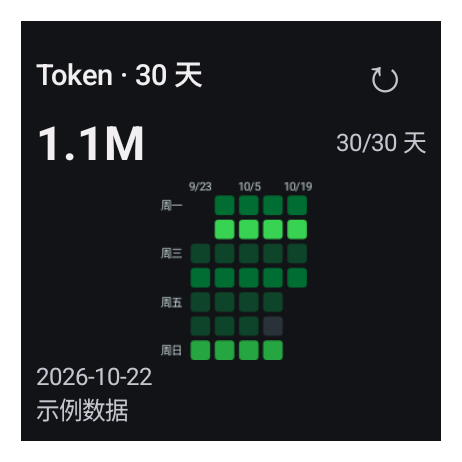
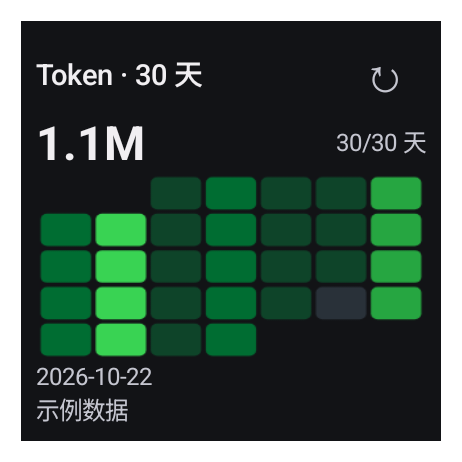
Use full-width calendar heatmaps in the app and widgets

Changed region(s): [[0.0606, 0.3636, 0.9394, 0.7879]]

diff --git a/app/src/main/java/com/tsonglew/quodex/widget/TokenHeatmapWidget.kt b/app/src/main/java/com/tsonglew/quodex/widget/TokenHeatmapWidget.kt
@@ -55,12 +55,10 @@ class TokenHeatmapWidget : GlanceAppWidget() {
         val muted = ColorProvider(colors.onSurfaceVariant)
         val large = context.resources.configuration.fontScale > 1.3f
         val square = size.width < 220.dp
-        val compactLabels = large || size.width < 280.dp
         val tokens = if (state.demo) demoTokenUsage() else state.snapshot?.tokenUsage
         val trend = remember(tokens) { tokenTrend(tokens?.dailyBuckets, 30) }
-        // At the smallest size, move the total into the heading at large font scales
-        // so the heatmap still has useful height instead of becoming a tiny thumbnail.
-        val totalInHeading = square && size.height < 140.dp && large && trend != null
+        // Share the heading with the total at the smallest size to leave room for every week.
+        val totalInHeading = square && size.height < 140.dp && trend != null
         val stale = !state.demo && tokens != null && (state.tokenFailure != null || Instant.now().epochSecond - tokens.fetchedAt > 7200)
         val status = when {
             state.demo -> texts(R.string.sample_data)
@@ -77,7 +75,7 @@ class TokenHeatmapWidget : GlanceAppWidget() {
         Column(GlanceModifier.fillMaxSize().appWidgetBackground().background(ColorProvider(colors.background)).cornerRadius(24.dp).padding(if (square) 6.dp else 12.dp)) {
             Row(GlanceModifier.fillMaxWidth(), verticalAlignment = Alignment.CenterVertically) {
                 Text(if (totalInHeading) formatTokenCount(trend!!.total, true) else texts(if (square && (size.width < 160.dp || large)) R.string.token_heatmap_widget_title_compact else R.string.token_heatmap_widget_title), GlanceModifier.defaultWeight(),
-                    style = TextStyle(color = foreground, fontSize = if (totalInHeading) 8.sp else if (square) { if (large) 7.sp else 11.sp } else if (large) 10.sp else 14.sp,
+                    style = TextStyle(color = foreground, fontSize = if (totalInHeading) { if (large) 8.sp else 14.sp } else if (square) { if (large) 7.sp else 11.sp } else if (large) 10.sp else 14.sp,
                         fontWeight = if (totalInHeading) FontWeight.Bold else FontWeight.Medium), maxLines = 1)
                 Button(if (state.tokenLoading) "…" else "↻", onClick = if (!state.connected && !state.demo) launch else actionRunCallback<RefreshTokenWidgetAction>(),
                     modifier = GlanceModifier.width(if (square) 32.dp else 40.dp).height(if (square) 28.dp else 32.dp).padding(0.dp).background(Color.Transparent)
@@ -88,34 +86,24 @@ class TokenHeatmapWidget : GlanceAppWidget() {
             Box(GlanceModifier.fillMaxWidth().defaultWeight()) {
                 if (trend != null) {
                     val map = remember(trend) { TokenHeatmap(trend) }
-                    val chartWidth = if (square) size.width.value - 12 else (size.width.value - 24) * if (large) .48f else .55f
-                    val chartHeight = if (square) (size.height.value - if (totalInHeading) 58 else 80).coerceAtLeast(20f)
-                        else (size.height.value - 80).coerceAtLeast(68f)
+                    val chartWidth = size.width.value - if (square) 12 else 24
+                    val chartHeight = (size.height.value - if (totalInHeading) 58 else 80).coerceAtLeast(20f)
                     val bitmap = remember(map, chartWidth, chartHeight, dark, texts.locale) {
-                        TokenHeatmapRenderer.render(map, (chartWidth * 2).toInt(), (chartHeight * 2).toInt(), dark, texts.locale)
+                        TokenHeatmapRenderer.render(map, (chartWidth * 2).toInt(), (chartHeight * 2).toInt(),
+                            dark, texts.locale, showLabels = false)
                     }
-                    if (square) Column(GlanceModifier.fillMaxSize()) {
+                    Column(GlanceModifier.fillMaxSize()) {
                         if (!totalInHeading) Row(GlanceModifier.fillMaxWidth(), verticalAlignment = Alignment.CenterVertically) {
                             Text(formatTokenCount(trend.total, true), GlanceModifier.defaultWeight(), style = TextStyle(color = foreground,
-                                fontSize = if (large) 9.sp else if (size.width < 160.dp) 14.sp else 18.sp, fontWeight = FontWeight.Bold), maxLines = 1)
-                            if (size.width >= 160.dp && !large) Text(texts(R.string.token_heatmap_known_days_short, trend.knownDays, 30),
-                                style = TextStyle(color = muted, fontSize = 9.sp), maxLines = 1)
+                                fontSize = if (large) { if (square) 9.sp else 12.sp } else if (square) 18.sp else 23.sp,
+                                fontWeight = FontWeight.Bold), maxLines = 1)
+                            if (size.width >= 160.dp && (!large || !square)) Text(
+                                texts(if (square || large) R.string.token_heatmap_known_days_short else R.string.token_heatmap_known_days, trend.knownDays, 30),
+                                style = TextStyle(color = muted, fontSize = if (large) 7.sp else if (square) 9.sp else 10.sp), maxLines = 1)
                         }
-                        Image(ImageProvider(bitmap), null, GlanceModifier.fillMaxWidth().defaultWeight(), contentScale = ContentScale.Fit)
+                        // The seven weekday columns stretch across both narrow and wide widgets.
+                        Image(ImageProvider(bitmap), null, GlanceModifier.fillMaxWidth().defaultWeight(), contentScale = ContentScale.FillBounds)
                         Text(trend.endDate.toString(), style = TextStyle(color = muted, fontSize = if (large) 6.sp else 9.sp), maxLines = 1)
-                    } else Row(GlanceModifier.fillMaxSize(), verticalAlignment = Alignment.CenterVertically) {
-                        Image(ImageProvider(bitmap), null, GlanceModifier.width(chartWidth.dp).fillMaxHeight(), contentScale = ContentScale.Fit)
-                        Spacer(GlanceModifier.width(10.dp))
-                        Column(GlanceModifier.defaultWeight()) {
-                            Text(formatTokenCount(trend.total, true), style = TextStyle(color = foreground,
-                                fontSize = if (large) 12.sp else 23.sp, fontWeight = FontWeight.Bold), maxLines = 2)
-                            if (!compactLabels) Text(texts(R.string.token_heatmap_tokens), style = TextStyle(color = muted, fontSize = 11.sp), maxLines = 1)
-                            Spacer(GlanceModifier.height(if (compactLabels) 4.dp else 6.dp))
-                            Text(texts(if (large) R.string.token_heatmap_known_days_short else R.string.token_heatmap_known_days, trend.knownDays, 30),
-                                style = TextStyle(color = muted, fontSize = if (large) 7.sp else 10.sp), maxLines = 2)
-                            Text(if (compactLabels) trend.endDate.toString() else texts(R.string.token_heatmap_through, trend.endDate),
-                                style = TextStyle(color = muted, fontSize = if (large) 7.sp else 10.sp), maxLines = 2)
-                        }
                     }
                 } else {
                     Column(GlanceModifier.fillMaxSize(), verticalAlignment = Alignment.CenterVertically) {

diff --git a/app/src/main/java/com/tsonglew/quodex/ui/TokenHeatmapRenderer.kt b/app/src/main/java/com/tsonglew/quodex/ui/TokenHeatmapRenderer.kt
@@ -18,18 +18,20 @@ internal object TokenHeatmapRenderer {
         0xff293139.toInt(), 0xff0e4429.toInt(), 0xff006d32.toInt(), 0xff26a641.toInt(), 0xff39d353.toInt()
     ) else intArrayOf(0xffe6ebef.toInt(), 0xff9be9a8.toInt(), 0xff40c463.toInt(), 0xff30a14e.toInt(), 0xff216e39.toInt())
 
-    data class Geometry(val left: Float, val top: Float, val cell: Float, val gap: Float) {
-        fun bounds(week: Int, row: Int) = RectF(left + week * (cell + gap), top + row * (cell + gap),
-            left + week * (cell + gap) + cell, top + row * (cell + gap) + cell)
+    data class Geometry(val left: Float, val top: Float, val cellWidth: Float, val cellHeight: Float, val gap: Float) {
+        fun bounds(week: Int, weekday: Int) = RectF(
+            left + weekday * (cellWidth + gap), top + week * (cellHeight + gap),
+            left + weekday * (cellWidth + gap) + cellWidth, top + week * (cellHeight + gap) + cellHeight)
     }
 
-    fun geometry(map: TokenHeatmap, width: Float, height: Float): Geometry {
-        val label = min(width * .2f, height * .19f)
-        val top = height * .12f
-        val gap = height * .025f
-        val cell = min((width - label - gap * map.weeks) / map.weeks, (height - top - gap * 6) / 7).coerceAtLeast(1f)
-        val plot = cell * map.weeks + gap * (map.weeks - 1)
-        return Geometry(label + (width - label - plot) / 2, top, cell, gap)
+    fun geometry(map: TokenHeatmap, width: Float, height: Float, showLabels: Boolean = true): Geometry {
+        val gap = min(width * .012f, height / (map.weeks * 5 + 2))
+        val left = if (showLabels) width * .12f else gap
+        val top = if (showLabels) min(width * .08f, height * .4f) else gap
+        // Seven weekday columns use the available width even in a short 2×2 widget.
+        // Rectangular cells avoid shrinking the entire chart to fit its height.
+        return Geometry(left, top, ((width - left - gap * 7) / 7).coerceAtLeast(1f),
+            ((height - top - gap * map.weeks) / map.weeks).coerceAtLeast(1f), gap)
     }
 
     fun hit(map: TokenHeatmap, width: Float, height: Float, x: Float, y: Float): TokenTrendDay? {
@@ -41,51 +43,54 @@ internal object TokenHeatmapRenderer {
     }
 
     fun render(map: TokenHeatmap, width: Int, height: Int, dark: Boolean, locale: Locale,
-        selected: String? = null): Bitmap {
+        selected: String? = null, showLabels: Boolean = true): Bitmap {
         val bitmap = Bitmap.createBitmap(width.coerceAtLeast(1), height.coerceAtLeast(1), Bitmap.Config.ARGB_8888)
         val canvas = Canvas(bitmap)
         val paint = Paint(Paint.ANTI_ALIAS_FLAG)
         val palette = colors(dark)
         val muted = if (dark) 0xffb7c4c7.toInt() else 0xff52605a.toInt()
-        val g = geometry(map, width.toFloat(), height.toFloat())
-        val labelSize = min(g.cell * .65f, height * .06f)
-        paint.textSize = labelSize
-        paint.color = muted
-        paint.textAlign = Paint.Align.RIGHT
-        for (row in listOf(0, 2, 4, 6)) {
-            val bounds = g.bounds(0, row)
-            canvas.drawText(DayOfWeek.of(row + 1).getDisplayName(TextStyle.SHORT, locale),
-                g.left - g.gap * 1.8f, bounds.centerY() - (paint.ascent() + paint.descent()) / 2, paint)
+        val g = geometry(map, width.toFloat(), height.toFloat(), showLabels)
+        val cell = min(g.cellWidth, g.cellHeight)
+        val labelSize = min(g.cellWidth * .4f, min(g.cellHeight * .55f, g.top * .65f))
+        if (showLabels) {
+            paint.textSize = labelSize
+            paint.color = muted
+            paint.textAlign = Paint.Align.CENTER
+            for (weekday in 0..6) {
+                val label = DayOfWeek.of(weekday + 1).getDisplayName(TextStyle.SHORT, locale)
+                paint.textSize = labelSize
+                paint.textSize *= min(1f, g.cellWidth / paint.measureText(label))
+                canvas.drawText(label, g.bounds(0, weekday).centerX(),
+                    (g.top - g.gap) / 2 - (paint.ascent() + paint.descent()) / 2, paint)
+            }
         }
-        paint.textAlign = Paint.Align.CENTER
         val dateFormat = DateTimeFormatter.ofPattern("M/d", locale)
-        var previousLabelRight = Float.NEGATIVE_INFINITY
         for (week in 0 until map.weeks) {
             val first = (0..6).firstNotNullOfOrNull { map.day(week, it) } ?: continue
             paint.style = Paint.Style.FILL
             paint.color = muted
-            // Skip crowded ticks in short 5–6 column heatmaps, including widgets.
-            val label = first.date.format(dateFormat)
-            val center = g.bounds(week, 0).centerX()
-            val halfWidth = paint.measureText(label) / 2
-            if (center - halfWidth >= previousLabelRight + labelSize * .7f) {
-                canvas.drawText(label, center, g.top - g.gap, paint)
-                previousLabelRight = center + halfWidth
+            if (showLabels) {
+                val label = first.date.format(dateFormat)
+                paint.textAlign = Paint.Align.RIGHT
+                paint.textSize = labelSize
+                paint.textSize *= min(1f, (g.left - g.gap * 2) / paint.measureText(label))
+                canvas.drawText(label, g.left - g.gap * 1.5f,
+                    g.bounds(week, 0).centerY() - (paint.ascent() + paint.descent()) / 2, paint)
             }
             for (row in 0..6) {
                 val day = map.day(week, row) ?: continue
                 val level = map.level(day)
                 val bounds = g.bounds(week, row)
-                val radius = g.cell * .18f
+                val radius = cell * .18f
                 paint.color = if (level < 0) muted else palette[level]
                 paint.style = if (level < 0) Paint.Style.STROKE else Paint.Style.FILL
-                paint.strokeWidth = (g.cell * .045f).coerceAtLeast(1f)
+                paint.strokeWidth = (cell * .045f).coerceAtLeast(1f)
                 canvas.drawRoundRect(bounds, radius, radius, paint)
-                if (level < 0) canvas.drawLine(bounds.left + g.cell * .32f, bounds.centerY(), bounds.right - g.cell * .32f, bounds.centerY(), paint)
+                if (level < 0) canvas.drawLine(bounds.left + g.cellWidth * .32f, bounds.centerY(), bounds.right - g.cellWidth * .32f, bounds.centerY(), paint)
                 if (day.date.toString() == selected) {
                     paint.color = muted
                     paint.style = Paint.Style.STROKE
-                    paint.strokeWidth = (g.cell * .07f).coerceAtLeast(1.5f)
+                    paint.strokeWidth = (cell * .07f).coerceAtLeast(1.5f)
                     val ring = RectF(bounds).apply { inset(-g.gap * .3f, -g.gap * .3f) }
                     canvas.drawRoundRect(ring, radius, radius, paint)
                 }

diff --git a/app/src/main/java/com/tsonglew/quodex/ui/TokenHeatmapChart.kt b/app/src/main/java/com/tsonglew/quodex/ui/TokenHeatmapChart.kt
@@ -44,18 +44,19 @@ internal fun TokenHeatmapChart(trend: TokenTrend, compact: Boolean, modifier: Mo
         texts(R.string.value_days_recorded_as_0_open_daily, trend.days.count { it.tokens == BigInteger.ZERO })
     Column(modifier, verticalArrangement = Arrangement.spacedBy(10.dp)) {
         Text(texts(R.string.token_heatmap_scale), fontSize = 12.sp, color = muted)
-        BoxWithConstraints(Modifier.fillMaxWidth().height(210.dp).testTag("token-trend-chart")
+        BoxWithConstraints(Modifier.fillMaxWidth().testTag("token-trend-chart")
             .semantics(mergeDescendants = true) {
                 contentDescription = description
                 if (onDetails != null) onClick(texts(R.string.daily_details)) { onDetails(); true }
             }) {
             val density = LocalDensity.current
             val width = with(density) { maxWidth.roundToPx() }.coerceAtLeast(1)
-            val height = with(density) { 210.dp.roundToPx() }
+            val chartHeight = (maxWidth.value * (.12f * map.weeks + .08f) + 4).coerceIn(60f, 260f).dp
+            val height = with(density) { chartHeight.roundToPx() }
             val bitmap = remember(map, width, height, dark, texts.locale, selectedDate) {
                 TokenHeatmapRenderer.render(map, width, height, dark, texts.locale, selectedDate).asImageBitmap()
             }
-            Image(bitmap, null, Modifier.fillMaxSize().testTag("token-heatmap").pointerInput(map, width, height) {
+            Image(bitmap, null, Modifier.fillMaxWidth().height(chartHeight).testTag("token-heatmap").pointerInput(map, width, height) {
                 detectTapGestures { point -> TokenHeatmapRenderer.hit(map, width.toFloat(), height.toFloat(), point.x, point.y)?.let { selected = it.date.toString() } }
             })
         }

diff --git a/app/src/androidTest/java/com/tsonglew/quodex/TokenUsageDeviceTest.kt b/app/src/androidTest/java/com/tsonglew/quodex/TokenUsageDeviceTest.kt
@@ -118,6 +118,26 @@ class TokenUsageDeviceTest {
         assertNull(app.repository.state.value.snapshot?.tokenUsage)
     }
 
+    @Test fun calendarUsesCardWidthAndAdaptsHeightToTheSelectedPeriod() {
+        compose.onNodeWithTag("demo-button").performClick()
+        compose.waitUntil(10_000) { compose.onAllNodesWithTag("token-usage-card").fetchSemanticsNodes().isNotEmpty() }
+        chooseChart("heatmap")
+        var sevenDayHeight = 0
+        for (days in listOf(7, 30)) {
+            compose.onNodeWithTag("token-trend-$days").performScrollToVisible(compose).performClick()
+            compose.onNodeWithTag("token-trend-chart").performScrollToVisible(compose)
+            val bitmap = compose.onNodeWithTag("token-heatmap", useUnmergedTree = true).captureToImage().asAndroidBitmap()
+            val greens = com.tsonglew.quodex.ui.TokenHeatmapRenderer.colors(false).drop(1).toSet()
+            val occupiedColumns = (0 until bitmap.width).filter { x ->
+                (0 until bitmap.height).any { y -> bitmap.getPixel(x, y) in greens }
+            }
+            assertTrue("Every period should fill the chart width", occupiedColumns.isNotEmpty() &&
+                occupiedColumns.last() - occupiedColumns.first() > bitmap.width * .80f)
+            if (days == 7) sevenDayHeight = bitmap.height else assertTrue(bitmap.height > sevenDayHeight * 1.5)
+            screenshot("token-calendar-$days-demo-light")
+        }
+    }
+
     @Test fun heatmapWidgetIntentReturnsFromSettingsAndShowsThirtyDays() {
         connectWithTokens()
         chooseChart("bars")

diff --git a/app/src/androidTest/java/com/tsonglew/quodex/TokenHeatmapWidgetDeviceTest.kt b/app/src/androidTest/java/com/tsonglew/quodex/TokenHeatmapWidgetDeviceTest.kt
@@ -213,6 +213,15 @@ class TokenHeatmapWidgetDeviceTest {
             saveDeviceScreenshot(context, name, bitmap)
             assertWidgetActionLayout(view, refreshDescription, texts(R.string.value_open_quodex, ""))
             assertTrue("Heatmap bitmap must be visible", descendants(view).filterIsInstance<ImageView>().any { it.drawable != null && it.width > 0 && it.height > 0 })
+            // Inspect the rendered host, including ImageView scaling: a visible but narrow
+            // bitmap used to pass while leaving most of the 2×2 widget empty.
+            val greens = com.tsonglew.quodex.ui.TokenHeatmapRenderer.colors(false).drop(1).toSet() +
+                com.tsonglew.quodex.ui.TokenHeatmapRenderer.colors(true).drop(1).toSet()
+            val occupiedColumns = (0 until bitmap.width).filter { x ->
+                (0 until bitmap.height).any { y -> bitmap.getPixel(x, y) in greens }
+            }
+            assertTrue("Heatmap must span most of the widget width",
+                occupiedColumns.isNotEmpty() && occupiedColumns.last() - occupiedColumns.first() > bitmap.width * .68f)
             for (label in labels(view).filter { it.text.isNotEmpty() }) {
                 val bounds = Rect()
                 assertTrue("Hidden widget text: ${label.text}", label.getLocalVisibleRect(bounds))

diff --git a/app/src/test/java/com/tsonglew/quodex/data/TokenHeatmapTest.kt b/app/src/test/java/com/tsonglew/quodex/data/TokenHeatmapTest.kt
@@ -6,7 +6,7 @@ import java.math.BigInteger
 import java.time.LocalDate
 
 class TokenHeatmapTest {
-    @Test fun calendarColumnsPreserveExactlyThirtyDatesAcrossLeapDay() {
+    @Test fun calendarWeeksPreserveExactlyThirtyDatesAcrossLeapDay() {
         val trend = tokenTrend(listOf(DailyTokenUsage("2024-03-10", 10)), 30)!!
         val map = TokenHeatmap(trend)
         val cells = (0 until map.weeks).flatMap { week -> (0..6).mapNotNull { map.day(week, it) } }

diff --git a/app/src/main/java/com/tsonglew/quodex/data/TokenHeatmap.kt b/app/src/main/java/com/tsonglew/quodex/data/TokenHeatmap.kt
@@ -2,7 +2,7 @@ package com.tsonglew.quodex.data
 
 import java.math.BigInteger
 
-/** Monday-first rows and week columns, with padding outside the requested service-date range. */
+/** Monday-first weeks, with padding outside the requested service-date range. */
 data class TokenHeatmap(val trend: TokenTrend) {
     val leadingDays: Int = trend.startDate.dayOfWeek.value - 1
     val weeks: Int = (leadingDays + trend.days.size + 6) / 7

diff --git a/README.md b/README.md
@@ -7,7 +7,7 @@
 
 面向 Android 的 Codex 额度监控 App，支持桌面小组件、重置时间和 Token 使用趋势。Quodex 是独立第三方工具，与 OpenAI 无隶属关系。
 
-> **当前公开预发布：0.1.0-alpha30**。近 7／30 天均可切换条形图与热力图，并记住选择；30 天热力图桌面组件默认 **2×2**。已包含中英日三语、液态玻璃风格悬浮导航、小米桌面权限提醒、App 内下载安装更新及网络自动重试。
+> **当前代码版本：0.1.0-alpha31**。近 7／30 天均可切换条形图与热力图，并记住选择；热力图按周一至周日横向铺满，App 高度随周数调整，**2×2** 桌面组件优先把空间留给图表。已包含中英日三语、液态玻璃风格悬浮导航、小米桌面权限提醒、App 内下载安装更新及网络自动重试。
 
 [官网](https://tsonglew.github.io/quodex/) · [观看动效](https://tsonglew.github.io/quodex/#motion) · [公开 APK 与预发布](https://github.com/tsonglew/Quodex/releases) · [支持范围](docs/SUPPORT.md)
 
@@ -15,20 +15,20 @@
 | --- | --- |
 | <img src="docs/screenshots/glass-navigation/light.png" width="300" alt="浅色界面与玻璃悬浮导航，使用示例数据" /> | <img src="docs/screenshots/glass-navigation/dark.png" width="300" alt="深色界面与玻璃悬浮导航，使用示例数据" /> |
 
-以上为 alpha26 引入的[玻璃导航界面](docs/GLASS_NAVIGATION.md)，来自 API 37 模拟器，使用示例数据。alpha30 的图表切换与 2×2 组件截图见下方。[品牌与素材规范](docs/BRANDING.md)。
+以上为 alpha26 引入的[玻璃导航界面](docs/GLASS_NAVIGATION.md)，来自 API 37 模拟器，使用示例数据。alpha31 的日历式热力图与 2×2 组件截图见下方。[品牌与素材规范](docs/BRANDING.md)。
 
-已验证的 alpha30 安装包见 [build-41033042814-1](https://github.com/tsonglew/Quodex/releases/tag/build-41033042814-1)。[对应 CI](https://github.com/tsonglew/Quodex/actions/runs/41033042814) 的六组 Android 设备测试、发布构建与固定签名流程全部通过；公开 APK 的版本、签名、SHA-256 和来源提交已核对。当前功能见下方，历史发布仍保留在 [Releases](https://github.com/tsonglew/Quodex/releases)。
+安装包见 [GitHub Releases](https://github.com/tsonglew/Quodex/releases)。主分支通过六组 Android 设备测试、发布构建与固定签名检查后自动生成预发布；源码版本不代表该版本已发布，请以 Release 中实际上传的 APK、版本、来源与 SHA-256 为准。已有用户可在 App 内检查并下载安装更新。
 
 | 30 日热力图 | 30 日条形图 | 2×2 桌面热力图 |
 | --- | --- | --- |
-| <img src="docs/screenshots/token-heatmap-app.png" width="260" alt="alpha30 的 30 日热力图与图表切换按钮，合成数据" /> | <img src="docs/screenshots/token-thirty-day-bars.png" width="260" alt="alpha30 同一 30 日范围切换为条形图，合成数据" /> | <img src="docs/screenshots/token-heatmap-widget.png" width="220" alt="alpha30 浅色 2×2 热力图桌面组件，示例数据" /> |
+| <img src="docs/screenshots/token-heatmap-app.png" width="260" alt="alpha31 横向七列的 30 日热力图与图表切换按钮，示例数据" /> | <img src="docs/screenshots/token-thirty-day-bars.png" width="260" alt="alpha30 同一 30 日范围切换为条形图，合成数据" /> | <img src="docs/screenshots/token-heatmap-widget.png" width="220" alt="alpha31 铺满内容宽度的浅色 2×2 热力图桌面组件，示例数据" /> |
 
-以上为 alpha30 模拟器截图，数据为演示或测试数据。[热力图与切换说明](docs/TOKEN_HEATMAP.md)。已有桌面实例可能保留旧尺寸，缩小或重新添加即可使用 2×2 布局。
+热力图与小组件为 alpha31 debug 模拟器原生截图，使用示例数据；条形图沿用 alpha30 合成数据截图，该布局未改动。[热力图与切换说明](docs/TOKEN_HEATMAP.md)。已有桌面实例可能保留旧尺寸，缩小或重新添加即可使用 2×2 布局。
 
 安装包、校验和与来源提交见 [GitHub Releases](https://github.com/tsonglew/Quodex/releases)。每次主分支发布须通过完整 CI 和固定签名验证，实际可安装版本以对应发布记录和 APK 附件为准。
 
 - **额度与重置时间**：按服务端实际返回的周期展示，支持剩余／已用切换；没有返回用量时明确说明，不补成零或无限额度。
-- **Token 趋势**：近 7／30 天均可切换条形图与 [GitHub 风格热力图](docs/TOKEN_HEATMAP.md)，记住图表选择，提供累计用量和逐日明细；缺失日期与实际零值分别标记，统计失败保留上次数据。兼容接口仍待真实账号验收，不提供输入／输出／缓存细分或费用估算。
+- **Token 趋势**：近 7／30 天均可切换条形图与 [日历式热力图](docs/TOKEN_HEATMAP.md)，记住图表选择，提供累计用量和逐日明细；缺失日期与实际零值分别标记，统计失败保留上次数据。兼容接口仍待真实账号验收，不提供输入／输出／缓存细分或费用估算。
 - **桌面小组件**：标准额度、独立 2×1 额度与 2×2 的 30 天 Token 热力图，支持缩放、原地手动刷新和独立外观配置；点击热力图打开 App 的 30 日视图。后台刷新受 Android 网络、省电与厂商限制。
 - **多语言**：设置 → 应用语言，支持跟随系统、简体中文、English、日本語；页面、小组件、桌面额度图标和更新提示同步切换。
 - **桌面权限提醒**：小米／Redmi／POCO 添加桌面额度图标或小组件时，提醒检查桌面快捷方式权限，提供应用权限入口和手动添加指引；提醒不代表已检测到权限被拒绝。见[添加权限说明](docs/HOME_SCREEN_PERMISSION.md)。
@@ -41,7 +41,7 @@ alpha29 为额度、Token 统计、更新检查和 APK 下载加入[有限次数
 <details>
 <summary>历史版本验收与发布流程</summary>
 
-alpha22 的[原生动效录屏](https://tsonglew.github.io/quodex/#motion)保留为历史资料，展示页面淡入、额度条填充和 Token 柱条展开，采用示例数据；其深海青外观不代表当前界面。[动效说明与录屏来源](docs/MOTION.md)。alpha24 的[蓝色卡片界面与应用内更新](docs/ANDROID_DASHBOARD_UPDATE.md)、alpha25 的[多语言](docs/LOCALIZATION.md)、alpha26 的[玻璃导航](docs/GLASS_NAVIGATION.md)、alpha27 的[桌面权限提醒](docs/HOME_SCREEN_PERMISSION.md)、alpha29 的[网络重试](docs/NETWORK_RETRIES.md)均已包含在 alpha30 中。
+alpha22 的[原生动效录屏](https://tsonglew.github.io/quodex/#motion)保留为历史资料，展示页面淡入、额度条填充和 Token 柱条展开，采用示例数据；其深海青外观不代表当前界面。[动效说明与录屏来源](docs/MOTION.md)。alpha24 的[蓝色卡片界面与应用内更新](docs/ANDROID_DASHBOARD_UPDATE.md)、alpha25 的[多语言](docs/LOCALIZATION.md)、alpha26 的[玻璃导航](docs/GLASS_NAVIGATION.md)、alpha27 的[桌面权限提醒](docs/HOME_SCREEN_PERMISSION.md)、alpha29 的[网络重试](docs/NETWORK_RETRIES.md)均已包含在当前版本中。
 
 alpha19 的小组件在 Android 12 及以上改用直接接收点击的透明 TextView，分开处理打开与刷新；固定 Glance 1.1.1 的布局覆盖由构建检查保护。当时的最终候选通过 API29／37 各 16 项模拟器回归，以及 API37 两项真实 TalkBack 探索／双击专项。小米完整 preview 的标题、时间、刷新手指点击与外观已验收；示例模式刷新跳过联网且不更新时间，正式签名覆盖升级与真实账号刷新仍待验收，见 [验证记录](docs/VALIDATION_XIAOMI_WIDGET_TOUCH.md)。这些历史结果不等同于本次深海青构建的完整回归。
 

diff --git a/docs/TOKEN_HEATMAP.md b/docs/TOKEN_HEATMAP.md
@@ -2,7 +2,7 @@
 
 「额度 → Token 使用趋势」支持 GitHub 贡献图风格的热力图和条形图。alpha30 起，近 7 天和近 30 天都可通过「条形图／热力图」按钮切换，切换保留当前时间范围、汇总和逐日明细，不发起网络请求。选择保存在本机，重启后沿用；尚未选择时保持原有的 7 天条形图、30 天热力图默认值。
 
-热力图每列是一周，每行是星期一至星期日。
+alpha31 起，热力图横向固定为周一至周日，每行一周。App 将图表铺满卡片的可用宽度，并按实际周数调整高度；7 天不会再占用固定的 30 天图表高度。
 
 - 7／30 个格子对应截至服务端最新记录日期的连续 7／30 天，跨月也不会丢失日期。
 - 绿色深浅按本周期最高日用量分成四档，灰色表示明确记录的 0；带横线的空心格表示没有返回数据。窗口外的周首、周尾留白。
@@ -13,7 +13,7 @@
 
 在 App「小组件」页面点击「添加 Token 热力图组件」，或从系统桌面组件列表选择「Quodex → Token 热力图 · 30 天」。小米、Redmi、POCO 继续使用[桌面快捷方式权限提醒](HOME_SCREEN_PERMISSION.md)。
 
-组件默认 2×2，可缩放，最小内容区域为 110×110 dp。紧凑布局显示 30 天热力图、已返回日用量合计、服务端截止日期和缓存／示例状态；空间足够时还显示有记录的天数，宽布局保留本地获取时间。无障碍说明始终提供完整汇总和获取时间。外观可以独立选择跟随系统、浅色或深色；点右上角刷新按钮原地更新，点图表区域进入 App 并定位到 30 日热力图，不覆盖手动保存的图表偏好。已有桌面实例由 Launcher 保留尺寸，可缩小或重新添加。
+组件默认 2×2，可缩放，最小内容区域为 110×110 dp。alpha31 将图表改为占满内容宽度的七列日历，去掉组件里过小的坐标文字；最小尺寸下把合计并入标题行，宽布局的汇总也移到图表上方。单元格可随可用空间调整长宽，不再因为高度不足而整体缩成窄条。紧凑布局显示 30 天热力图、已返回日用量合计、服务端截止日期和缓存／示例状态；空间足够时还显示有记录的天数，宽布局保留本地获取时间。无障碍说明始终提供完整汇总和获取时间。外观可以独立选择跟随系统、浅色或深色；点右上角刷新按钮原地更新，点图表区域进入 App 并定位到 30 日热力图，不覆盖手动保存的图表偏好。已有桌面实例由 Launcher 保留尺寸，可缩小或重新添加。
 
 首次添加组件自动获取 token 统计。只要保留该组件，现有后台同步任务会更新其数据，采用 token 接口独立的一小时缓存与服务端限流策略。手动刷新优先执行，超时或暂时失败则交由 WorkManager 有界重试；这一路径不额外刷新已有的额度快照。实际后台执行时机仍受 Android 网络、省电及厂商策略约束。
 
@@ -27,10 +27,12 @@
 
 2026-10-30 本地验证：182 项 JVM 测试通过，debug/release lint 与构建通过；API 37 模拟器的 Token、热力图组件、权限引导及界面回归共 16 项通过，另有 1 项宽屏测试因当前窗口尺寸跳过。英文、日文最小尺寸及中文 200% 字体组件均检查了真实布局和文字裁切。发布仍以 GitHub 六组 Android CI 的实际结果为准。
 
-以下截图来自模拟器的演示或合成数据，不代表真实账号用量。
+2026-10-31 alpha31 本地验证：204 项 JVM 测试、55 项发布脚本测试、debug lint 与 APK 构建通过；API 37 专项 12 项中 11 项通过，包括 App 全宽／自适应高度、日期点击、状态恢复、组件六种尺寸与主题、英文／日文最小尺寸和 200% 字体。渲染像素检查要求热力格占据 App 图表宽度的 80% 以上、实际组件宿主宽度的 68% 以上。首次添加后取数的 1 项因本机模拟器网络只有 PARTIAL_CONNECTIVITY、未通过系统验证而失败，保留原断言，完整取数与刷新回归交由 GitHub 六组设备测试验证。
+
+以下热力图截图来自 alpha31 debug / API 37 模拟器及真实 AppWidgetHost，使用明确标注的示例数据；条形图沿用 alpha30 合成数据截图，布局未改动。图片原样保存，不代表真实账号用量。
 
 | App 30 日热力图 | App 30 日条形图 | 2×2 桌面组件 |
 | --- | --- | --- |
-| <img src="screenshots/token-heatmap-app.png" width="260" alt="可切换的 30 日热力图，合成数据" /> | <img src="screenshots/token-thirty-day-bars.png" width="260" alt="同一时间范围切换为条形图，合成数据" /> | <img src="screenshots/token-heatmap-widget.png" width="220" alt="浅色 2×2 热力图桌面组件，演示数据" /> |
+| <img src="screenshots/token-heatmap-app.png" width="260" alt="alpha31 七列日历式 30 日热力图，示例数据" /> | <img src="screenshots/token-thirty-day-bars.png" width="260" alt="同一时间范围切换为条形图，合成数据" /> | <img src="screenshots/token-heatmap-widget.png" width="220" alt="alpha31 全宽浅色 2×2 热力图桌面组件，示例数据" /> |
 
-<img src="screenshots/token-heatmap-widget-dark.png" width="360" alt="深色热力图桌面组件，演示数据" />
+<img src="screenshots/token-heatmap-widget-dark.png" width="360" alt="alpha31 全宽深色 2×2 热力图桌面组件，示例数据" />

diff --git a/docs/PROGRESS.md b/docs/PROGRESS.md
@@ -1,6 +1,10 @@
 # Quodex 开发进度
 
-更新日期：2026-10-30（Asia/Shanghai）。当前公开预发布为 [0.1.0-alpha30](https://github.com/tsonglew/Quodex/releases/tag/build-41033042814-1)，源提交 `832b4da92cfd1f3e32d05f1b6d33a94d003bc712`，已合并 [PR #43](https://github.com/tsonglew/Quodex/pull/43)。近 7／30 天支持条形图与热力图互相切换并保存偏好；30 天热力图桌面组件默认 2×2。已包含中英日三语、玻璃导航、小米桌面权限提醒、应用内更新和有限网络重试。
+更新日期：2026-10-31（Asia/Shanghai）。本轮代码版本为 `0.1.0-alpha31`：App 与桌面热力图统一改为横向七列日历布局，App 高度随周数调整，组件将更多空间留给图表。版本是否已发布以 [Releases](https://github.com/tsonglew/Quodex/releases) 的实际附件为准。
+
+本轮本地验证：204 项 JVM、55 项脚本、debug lint 与构建通过；API 37 热力图专项 11 项通过，1 项首次取数因模拟器网络未验证失败，完整设备 CI 待本轮 PR。README 与官网将同步新布局说明和实际截图。
+
+上一轮验证记录：alpha30 公开预发布为 [0.1.0-alpha30](https://github.com/tsonglew/Quodex/releases/tag/build-41033042814-1)，源提交 `832b4da92cfd1f3e32d05f1b6d33a94d003bc712`，已合并 [PR #43](https://github.com/tsonglew/Quodex/pull/43)。近 7／30 天支持条形图与热力图互相切换并保存偏好；30 天热力图桌面组件默认 2×2。已包含中英日三语、玻璃导航、小米桌面权限提醒、应用内更新和有限网络重试。
 
 [发布 CI](https://github.com/tsonglew/Quodex/actions/runs/41033042814) 的 API 29／31／35／36／37.0／37.2 六组设备检查及固定签名流程全部通过；公开 APK 的版本、签名、哈希和来源已核对。真实账号／OEM／长期验收继续单独跟踪。每次后续交付按 [开发约定](../AGENTS.md) 同步 README 与官网。
 

diff --git a/docs/SCREENSHOTS.md b/docs/SCREENSHOTS.md
@@ -1,5 +1,9 @@
 # Android 原生截图与动效录屏
 
+## alpha31 日历式热力图（2026-10-31）
+
+[App 与桌面组件截图](TOKEN_HEATMAP.md#验证)来自 alpha31 debug / API 37 模拟器，使用示例数据。App 为 Compose 原生屏幕捕获，组件由真实 AppWidgetHost 绘制并原样保存；不是设计稿或真实账号数据。热力图按周一至周日横向铺满，App 高度随周数变化，2×2 与宽版组件保留更多图表空间。条形图布局未改，继续使用已标注来源的 alpha30 截图。
+
 ## alpha22 动效录屏（2026-10-26）
 
 [在官网播放动效](https://tsonglew.github.io/quodex/#motion) · [打开 MP4](assets/motion/quodex-motion.mp4) · [动效参数与行为](MOTION.md)
